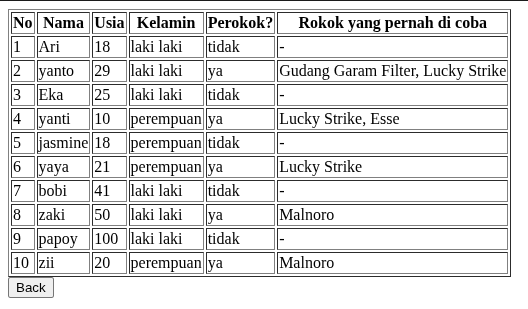
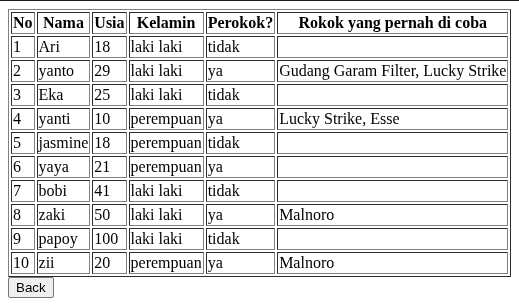
feat: update view table

diff --git a/survey.html b/survey.html
@@ -23,7 +23,7 @@
                 <td>18</td>
                 <td>laki laki</td>
                 <td>tidak</td>
-                <td>-</td>
+                <td></td>
             </tr>
             <tr>
                 <td>2</td>
@@ -39,7 +39,7 @@
                 <td>25</td>
                 <td>laki laki</td>
                 <td>tidak</td>
-                <td>-</td>
+                <td></td>
             </tr>
             <tr>
                 <td>4</td>
@@ -55,7 +55,7 @@
                 <td>18</td>
                 <td>perempuan</td>
                 <td>tidak</td>
-                <td>-</td>
+                <td></td>
             </tr>
             <tr>
                 <td>6</td>
@@ -63,7 +63,7 @@
                 <td>21</td>
                 <td>perempuan</td>
                 <td>ya</td>
-                <td>Lucky Strike</td>
+                <td></td>
             </tr>
             <tr>
                 <td>7</td>
@@ -71,7 +71,7 @@
                 <td>41</td>
                 <td>laki laki</td>
                 <td>tidak</td>
-                <td>-</td>
+                <td></td>
             </tr>
             <tr>
                 <td>8</td>
@@ -87,7 +87,7 @@
                 <td>100</td>
                 <td>laki laki</td>
                 <td>tidak</td>
-                <td>-</td>
+                <td></td>
             </tr>
             <tr>
                 <td>10</td>

diff --git a/README.md b/README.md
@@ -1,0 +1,5 @@
+# Task HTML 5 and HTML 6
+Program yang untuk membuat sebuah form dengan amed code
+## RESULT
+![alt text](image.png)
+![alt text](image-1.png)
